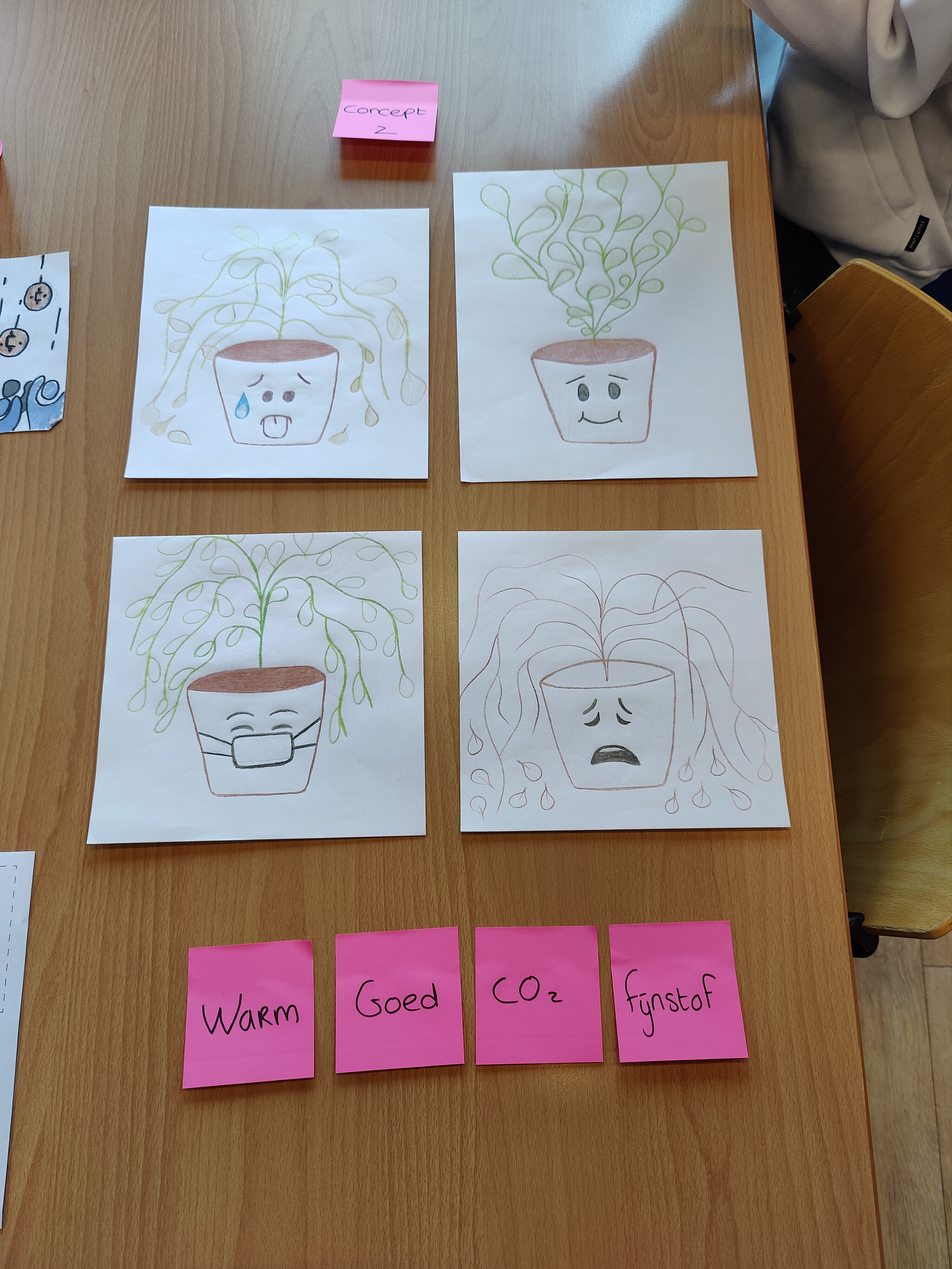
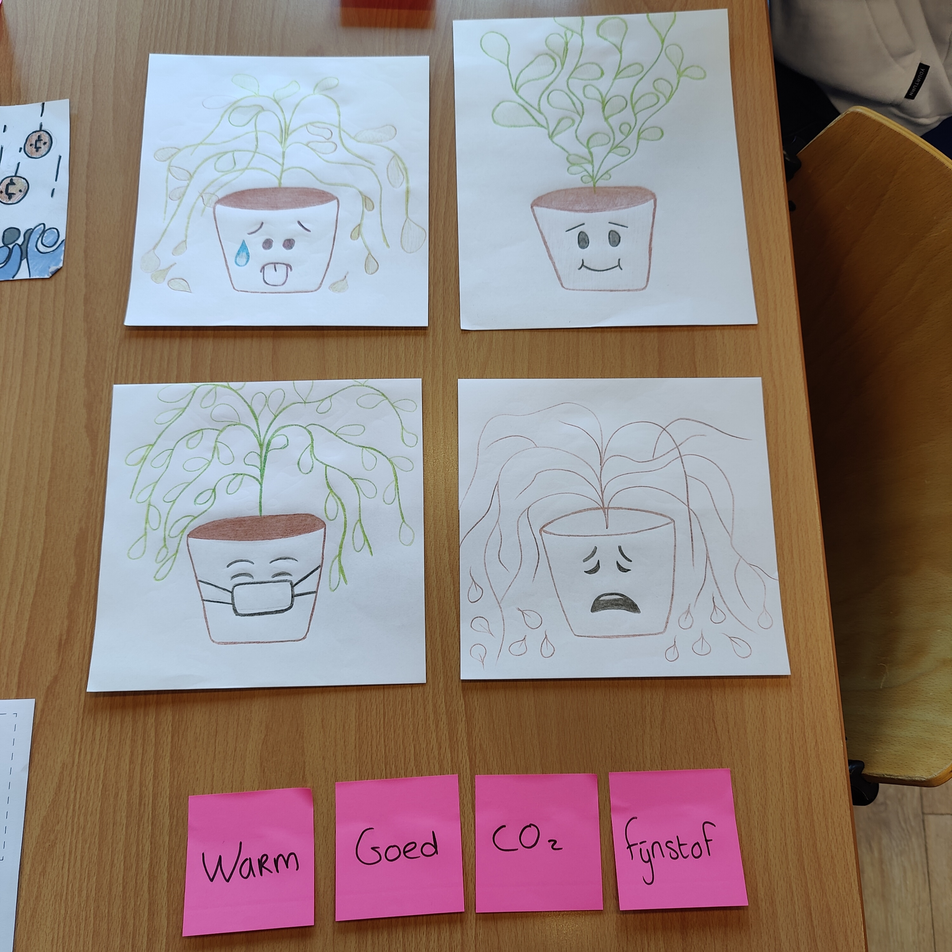
Added 'Klimaatstoplicht' text and eddited 'Klimaatje' img

diff --git a/index.html b/index.html
@@ -190,7 +190,28 @@
                 <summary>
                     Het Klimaat Stoplicht maakt de leerlingen bewust van de staat van het binnenklimaat in het lokaal.
                 </summary>
-                <p>Deze tekst biedt meer inzicht in het concepten en is standaard ingevouwen</p>
+                <img src="./assets/concept-images/klimaat-stoplicht.jpg" alt="Schets van het Klimaat Stoplicht concept.">
+                <h4>Doelgroep &amp; doelen</h4>
+                <p>
+                    Het Klimaatje richt zich op de leerlingen van 8-12 jaar die op basisscholen zitten. Deze leerlingen 
+                    gaan steeds rationeler denken en zoeken verdieping. De echte wereld om hun heen wordt belangrijker, 
+                    maar ze hebben nog steeds hun fantasie. 
+                    <br>
+                    Het doel van het concept is om leerlingen te betrekken bij het verbeteren van het stoplicht. 
+                    Door het stoplicht te koppelen aan een poster, leren zij over het belang van een goed binnenklimaat 
+                    en hoe zij deze kunnen behouden of verbeteren. 
+                </p>
+                <h4>Het concept</h4>
+                <p>
+                    Door middel van de Leapcraft sensor kan actuele data worden opgehaald over de staat van het binnenklimaat. 
+                    Op deze data reageert het stoplicht en maakt zo aan de leerlingen duidelijk wat er mis is met het 
+                    binnenklimaat.
+                    <br>
+                    In het stoplicht wordt er gekeken naar welke waardes het belangrijkst zijn in de klassen en welke de 
+                    grootste impact hebben. Hierna worden deze waarden gemeten en krijgen de leerlingen door middel van 
+                    gekleurde lichten te zien welke waarde het probleem is. Het stoplicht wordt gecombineerd met een poster 
+                    zodat er duidelijk te zien is wat welke waarde doet en wat er gedaan kan worden. 
+                </p>
             </details>
         </div>
     </div>
